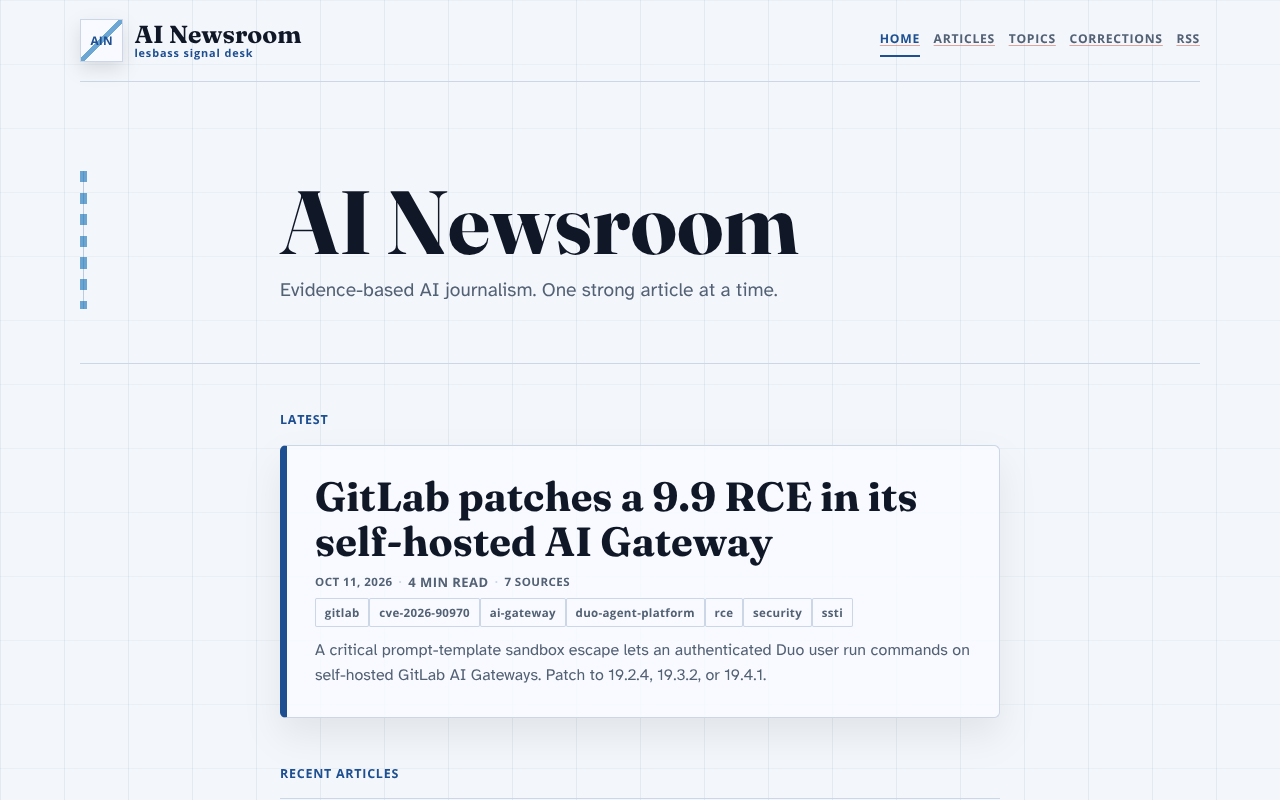
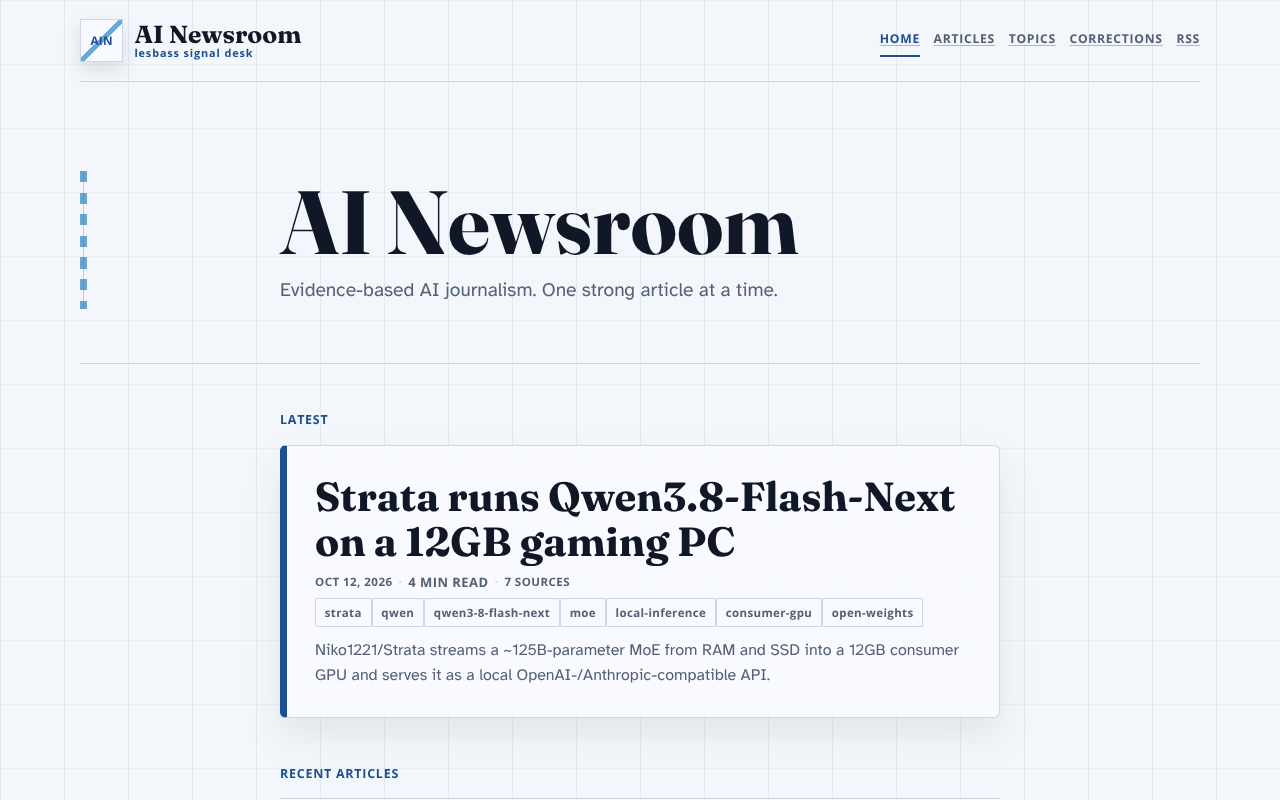
docs: 2026-10-12 SiteEngineer audit — Strata/Qwen3.8-Flash-Next live, all 5 criteria pass (AIN-943)

Changed region(s): [[0.25, 0.5938, 0.75, 0.7188], [0.25, 0.75, 0.75, 0.875]]

diff --git a/docs/audit-reports/2026-10-12.md b/docs/audit-reports/2026-10-12.md
@@ -1,0 +1,133 @@
+# SiteEngineer audit — 2026-10-12 (Strata / Qwen3.8-Flash-Next daily slot)
+
+**Issue:** AIN-943 · **Trigger:** `issue_blockers_resolved` after AIN-937 (Publisher) completed.
+**Canonical target:** **https://news.lesbass.com/** — not `ai-newsroom.pages.dev` and not
+`ai-newsroom.lesbass.workers.dev`.
+
+Deployed build verified against `main` HEAD **`4b0c444`** ("AIN-934 publish record for
+Strata/Qwen3.8-Flash-Next", 2026-10-12 06:13:58 UTC), whose content commit is **`fc6faeb`**
+(AIN-934 article). Live RSS `<lastBuildDate>` is `Mon, 12 Oct 2026 06:14:49 GMT` — the Workers
+build ran ~51 s after the HEAD commit, i.e. the artifact corresponds to `4b0c444`.
+
+Deployment settings (repository): build `npm run build` (`astro build`), output `dist/`, base URL
+`astro.config.mjs` → `site: 'https://news.lesbass.com/'`; runtime Worker `ai-newsroom`
+(`wrangler.jsonc`, `assets.directory: ./dist`, `run_worker_first: true`, `not_found_handling:
+404-page`). The longer-running base-URL/deployment thread is in
+[2026-10-12-base-url-deployment-verification.md](./2026-10-12-base-url-deployment-verification.md).
+
+## Criterion 1 — deployment / base URL (live)
+
+Fresh local `npm run build` of `main` @ `4b0c444` (586 pages) compared byte-for-byte with live:
+
+| Path | live | repo `dist/` | Result |
+|------|------|--------------|--------|
+| `/` | `2b37c75f…` | `2b37c75f…` | **MATCH** |
+| `/sitemap.xml` | `9f2b771e…` | `9f2b771e…` | **MATCH** |
+| `/robots.txt` | `efa6be05…` | `efa6be05…` | **MATCH** |
+| `/rss.xml` | `d1f58a10…` | `a8a3689a…` | differs **only** in `<lastBuildDate>` (empty diff once stripped) |
+
+Live checks (2026-10-12 ~06:16 UTC):
+
+| Check | Result |
+|-------|--------|
+| `http://news.lesbass.com/` | `301 → https://news.lesbass.com/` |
+| `/` `rel=canonical` / `og:url` / `<html lang>` | `https://news.lesbass.com/` / `en` |
+| `/sitemap.xml` | 200; **161** page `<loc>`, all `https://news.lesbass.com/`; max `lastmod` `2026-10-12` (today, not future) |
+| `/rss.xml` | 200; **71** `<item>`, 0 non-canonical `<link>`/`<guid>`; `<language>en-US</language>`; newest item `Mon, 12 Oct 2026` |
+| `/robots.txt` | 200; `Sitemap: https://news.lesbass.com/sitemap.xml` |
+| unknown path `/definitely-not-a-real-page-xyz943/` | `404`, `text/html`, 25,181 bytes, `<title>Page not found — AI Newsroom</title>` |
+| `pages.dev` / `workers.dev` in `/`, sitemap, RSS | 0 occurrences |
+
+External URLs in the sitemap are only `<image:image><image:loc>` entries for older articles whose
+hero is an upstream source screenshot (e.g. `opengraph.githubassets.com`, `images.ctfassets.net`);
+page `<loc>` are 100 % canonical. **No base-URL or deployment defect.**
+
+## Criterion 2 — new article live (`/articles/strata-runs-qwen-3-8-flash-next-on-12gb-gaming-pc/`)
+
+| Check | Result |
+|-------|--------|
+| HTTP status | **200** |
+| `rel=canonical` / `og:url` | canonical URL |
+| `<title>` | `Strata runs Qwen3.8-Flash-Next on a 12GB gaming PC — AI Newsroom` — **64 chars ≤ 70** |
+| `<h1>` | matches title headline; **exactly 1** `<h1>` |
+| `og:image` | `…/hero-social.jpg` — raster (JPEG), `og:image:width=1200`, `og:image:height=630` |
+| hero image | `<picture>` WebP (`hero-900.webp` 900w + `hero.webp` 2880w) → `hero.png` 2880×2200 fallback; non-empty `alt` |
+| hero credit | `figcaption`: `Source: https://github.com/Niko1221/Strata · Capture date: 2026-10-10 (UTC) via Playwright Chromium · Credit: Niko1221/Strata · License: Strata repository is MIT (screenshot of the project's own page)` |
+| `Sources` H2 | **exactly 1** |
+| JSON-LD `NewsArticle` | `headline` = `<h1>`; `datePublished` = `dateModified` = `2026-10-12T00:00:00.000Z` (today Europe/Rome, not future); `image` = canonical hero-social; `author` = AI Newsroom |
+| Image alt coverage | 0 `<img>` missing non-empty `alt` |
+
+Article shape matches the editorial preferred structure — H2 order: What happened · How Strata works
+· Why it matters · Try it · Risks and caveats · What to watch · Sources; 928 words; 7 primary
+sources.
+
+## Criterion 3 — automated gate (`CHECK_URL=https://news.lesbass.com/ npm run audit:daily`)
+
+Run on an isolated `git archive HEAD` export of `4b0c444` (2026-10-12 06:16 UTC):
+**11/11 PASS, 0 errors / 0 warnings.**
+
+Build ✅ · TypeCheck ✅ · Lint ✅ · Links ✅ · Mobile ✅ · SEO ✅ · SitemapLastmod ✅ · Images ✅ ·
+Dates ✅ · Contrast ✅ · Targets ✅
+
+- Contrast: **20/20** text/background pairs meet WCAG 2.1 AA (4.5:1), light and dark.
+- Targets: WCAG 2.5.8 — **748** measured targets across 12 page/viewport runs, **0 hard failures**.
+- SitemapLastmod: 90 listing/tag pages match the newest content date (`2026-10-12`).
+- Dates: all publication/update dates valid and not in the future.
+
+## Criterion 4 — real browser (Chromium, live production)
+
+Playwright Chromium captured `/` , the new Strata article, `/articles/` (listing) and
+`/tags/local-inference/` at desktop **1280×800** and mobile **390×844 (DPR 2)** — 8 runs. PNGs
+committed under `docs/audit-reports/2026-10-12/` (`2026-10-12-{home,strata,articles,tags}-{desktop,mobile}.png`).
+
+| Metric (all 8 runs) | Result |
+|---------------------|--------|
+| Page horizontal overflow (`scrollWidth == clientWidth`) | **0 failures** |
+| Console errors / page errors | **0** |
+| Failed requests | **0** |
+| `<img>` missing non-empty `alt` | **0** |
+| Broken images (`naturalWidth == 0`) | **0** |
+| `<h1>` per page | exactly **1** |
+
+The two wide tables in the article (requirements and Sources) stay inside their AIN-908
+`.table-scroll` containers, so the article page itself never scrolls sideways at either width.
+
+**Evidence limitation (disclosed):** this run's model cannot consume image bytes, so the visual
+judgment below is grounded in rendered DOM geometry captured in the same live browser session
+(`getBoundingClientRect`, computed styles, line counts) rather than pixel inspection. The committed
+PNGs are the visual record for a human reviewer.
+
+## Criterion 5 — UX / readability judgment
+
+Rendered measurements (live, same browser session):
+
+- **Homepage, mobile 390 px:** 12 article cards; single `<h1>` "AI Newsroom" (42.4 px) sits fully
+  in the first screen; card titles 27.2 px, deks 16 px. All 13 rendered deks clamp to a uniform
+  **3 lines** (120–190 chars, 75 px block) — compact and scannable, no multi-line text walls.
+  Density is therefore high but consistent; listings remain text-only by design (no card thumbnails,
+  0 `<img>` on `/`, `/articles/`, `/tags/…`), which keeps them fast and tidy but a little uniform.
+- **Article, desktop 1280 px:** prose column 760 px at 17 px / 29.75 px line-height (1.75) — a
+  comfortable, calm measure; `h1` 60 px; 7 H2 sections give clear hierarchy. On mobile the `h1`
+  drops to 35.2 px, the hero renders at 350 px, and `scrollWidth == clientWidth`.
+- **Editorial trust:** the hero is a dated, credited, licensed source screenshot of the project's
+  own GitHub page; the Sources section is a single table; JSON-LD is consistent with the visible
+  headline and date.
+- **Hierarchy/theming/accessibility:** one `<h1>` per page, semantic section headings, and WCAG
+  2.1 AA contrast + WCAG 2.5.8 targets both pass.
+
+Verdict: the new article is **mobile-readable and on-brand**; hierarchy and preview density are
+sound. No visual, readability, accessibility, SEO, or base-URL defect was found. No fix is required;
+no follow-up issue is warranted.
+
+## Disposition
+
+All five acceptance criteria hold:
+
+1. Deployment/base URL ✅ (live ≡ `main` @ `4b0c444`; canonical-only sitemap/RSS; `http→https` 301; 404 HTML)
+2. New Strata article ✅ (200; canonical/OG; 64-char title; raster OG image with dimensions; credited hero; single Sources H2; JSON-LD matches)
+3. Automated gate ✅ (11/11 PASS, 0 errors / 0 warnings on isolated `HEAD` export)
+4. Real browser ✅ (8 desktop/mobile runs; no overflow, no console errors, all images have alt; PNGs committed)
+5. UX judgment ✅ (recorded above)
+
+**AIN-943 → `done`.** No SiteEngineer defect; no repository change beyond this report and the
+committed browser evidence.
